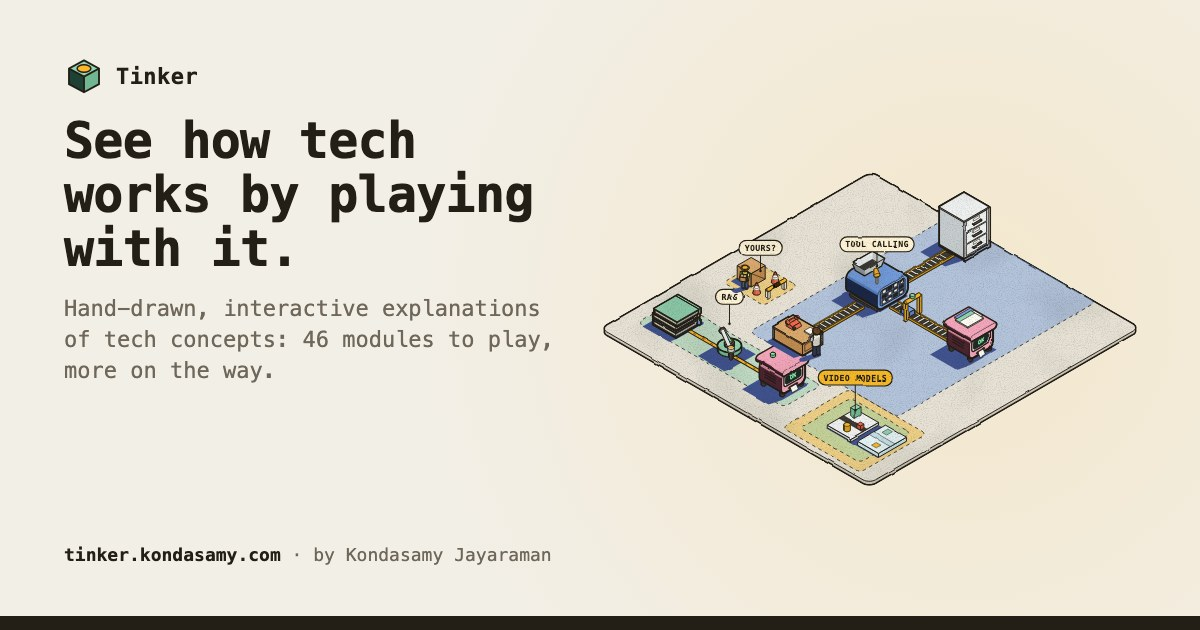
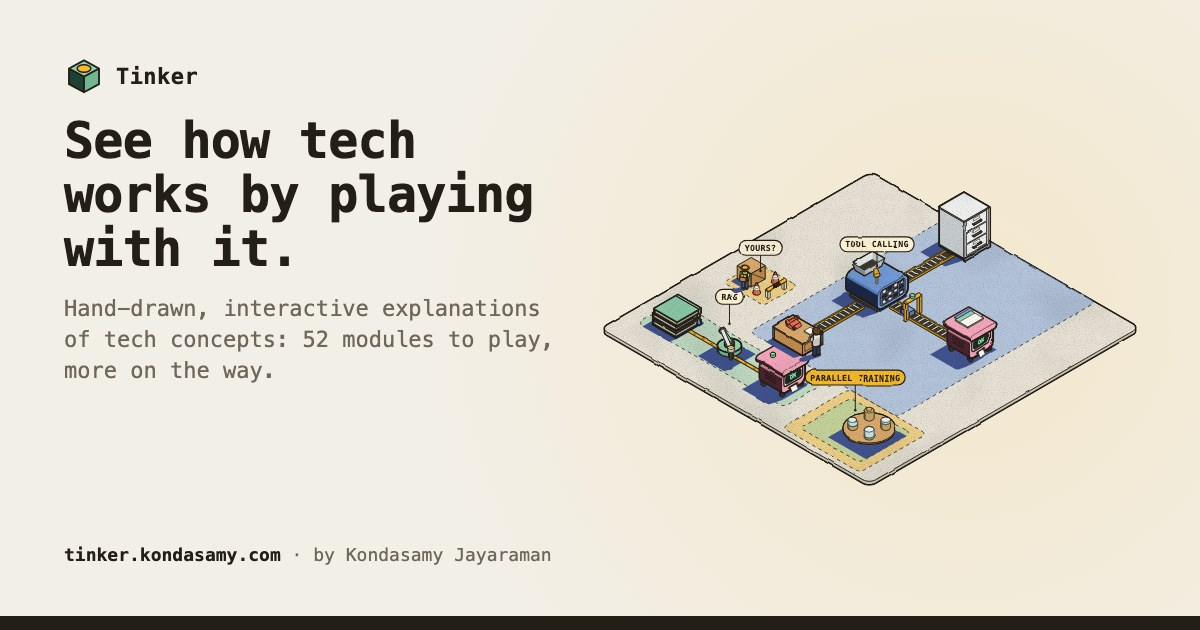
feat(parallel-training): Many chips, one model goes live as module 52
Registry entry after When the buyer is an agent (a new id, prereq: pre-training), home card and hero plot (ringPlot), share-image cases, the step-id pins for its chapters, the catalogue and module tests, and the go-live e2e checks.

Changed region(s): [[0.6783, 0.6333, 0.7708, 0.7238], [0.6475, 0.573, 0.7708, 0.6333], [0.2467, 0.5127, 0.2775, 0.573]]

diff --git a/tests/e2e/parallel-training.spec.ts b/tests/e2e/parallel-training.spec.ts
@@ -172,6 +172,27 @@ test('the recap names the module number', async ({ page }) => {
   await expect(page.locator('.hero .kicker')).toHaveText(`Module ${NUMBER} · Recap`);
 });
 
+test('go-live: own share images and home’s card', async ({ page }) => {
+  await page.goto('/parallel-training/');
+  await expect(page.locator('meta[property="og:image"]')).toHaveAttribute('content', /\/og\/parallel-training\.jpg$/);
+  await page.goto(`/parallel-training/${CH1}/`);
+  await expect(page.locator('meta[property="og:image"]')).toHaveAttribute(
+    'content',
+    new RegExp(`/og/parallel-training-${CH1}\\.jpg$`),
+  );
+  await page.goto('/parallel-training/recap/');
+  await expect(page.locator('meta[property="og:image"]')).toHaveAttribute(
+    'content',
+    /\/og\/parallel-training-recap\.jpg$/,
+  );
+  expect((await page.request.get('/og/parallel-training.jpg')).status()).toBe(200);
+  await page.goto('/');
+  await expect(page.locator('.module[data-module="parallel-training"] h4 a')).toHaveAttribute(
+    'href',
+    '/parallel-training/',
+  );
+});
+
 test('every chapter plays by mouse, in order through the Next links, with axe clean at each check', async ({
   page,
 }) => {

diff --git a/tests/unit/modules.test.ts b/tests/unit/modules.test.ts
@@ -850,6 +850,18 @@ describe('module registry', () => {
     expect(MODULES.filter(m => m.status === 'live').findIndex(m => m.id === 'agent-commerce')).toBe(50);
   });
 
+  it('has parallel-training as a live Advanced module after agent-commerce, numbered 52', () => {
+    expect(moduleOf('parallel-training')).toMatchObject({
+      title: 'Many chips, one model',
+      level: 'Advanced',
+      status: 'live',
+      prereqs: ['pre-training'],
+    });
+    expect(moduleOf('parallel-training').track).toBeUndefined();
+    expect(moduleOf('parallel-training').author).toEqual(moduleOf('rag').author);
+    expect(MODULES.filter(m => m.status === 'live').findIndex(m => m.id === 'parallel-training')).toBe(51);
+  });
+
   it('keeps chapter ids unique within every module', () => {
     for (const m of MODULES) expect(new Set(m.chapters.map(c => c.id)).size, m.id).toBe(m.chapters.length);
   });

diff --git a/src/components/scenes/heroScene.ts b/src/components/scenes/heroScene.ts
@@ -58,6 +58,7 @@ import { rackPlot } from './pigeonholeScene';
 import { gatePlot } from './gateScene';
 import { uvPlot } from './uvScene';
 import { hatchPlot } from './hatchScene';
+import { ringPlot } from './ringScene';
 import { SEQ_MSGS } from './toolSequence';
 import { MODULES } from '../../lib/modules';
 import type { Msg } from '../../lib/iso/flat';
@@ -274,6 +275,7 @@ const DRAW: Record<string, HeroPlot['draw']> = {
   fairness: (x, y, { top }) => gatePlot(x + 14, y - 2, top),
   watermarks: (x, y, { top }) => uvPlot(x + 14, y - 2, top),
   'agent-commerce': (x, y, { top }) => hatchPlot(x + 14, y - 2, top),
+  'parallel-training': (x, y, { top }) => ringPlot(x + 14, y - 2, top),
 };
 // only AI modules take a turn on the stand: classic tech waits in the catalogue
 const LIVE = MODULES.filter(m => m.status === 'live' && !m.track);

diff --git a/src/lib/modules.ts b/src/lib/modules.ts
@@ -50,6 +50,7 @@ import { LABELLING_MODULE } from '../content/labelling/module';
 import { FAIRNESS_MODULE } from '../content/fairness/module';
 import { WATERMARKS_MODULE } from '../content/watermarks/module';
 import { AGENT_COMMERCE_MODULE } from '../content/agent-commerce/module';
+import { PARALLEL_TRAINING_MODULE } from '../content/parallel-training/module';
 import type { RecallItem } from './recall';
 
 export type Level = 'Beginner' | 'Intermediate' | 'Advanced';
@@ -159,6 +160,7 @@ export const MODULES: Module[] = [
   FAIRNESS_MODULE,
   WATERMARKS_MODULE,
   AGENT_COMMERCE_MODULE,
+  PARALLEL_TRAINING_MODULE,
   planned(
     'choosing-models',
     'Choosing a model',

diff --git a/tests/e2e/catalogue.spec.ts b/tests/e2e/catalogue.spec.ts
@@ -58,6 +58,7 @@ const NUMBERED = [
   'fairness',
   'watermarks',
   'agent-commerce',
+  'parallel-training',
 ];
 
 // AI modules lead the catalogue; classic tech follows in its own section of compact cards
@@ -423,6 +424,10 @@ test('live modules keep their numbers, each linked under its level', async ({ pa
   await expect(page.locator('[data-level="Advanced"] .module[data-module="agent-commerce"] h4 a')).toHaveAttribute(
     'href',
     '/agent-commerce/',
+  );
+  await expect(page.locator('[data-level="Advanced"] .module[data-module="parallel-training"] h4 a')).toHaveAttribute(
+    'href',
+    '/parallel-training/',
   );
 });
 
